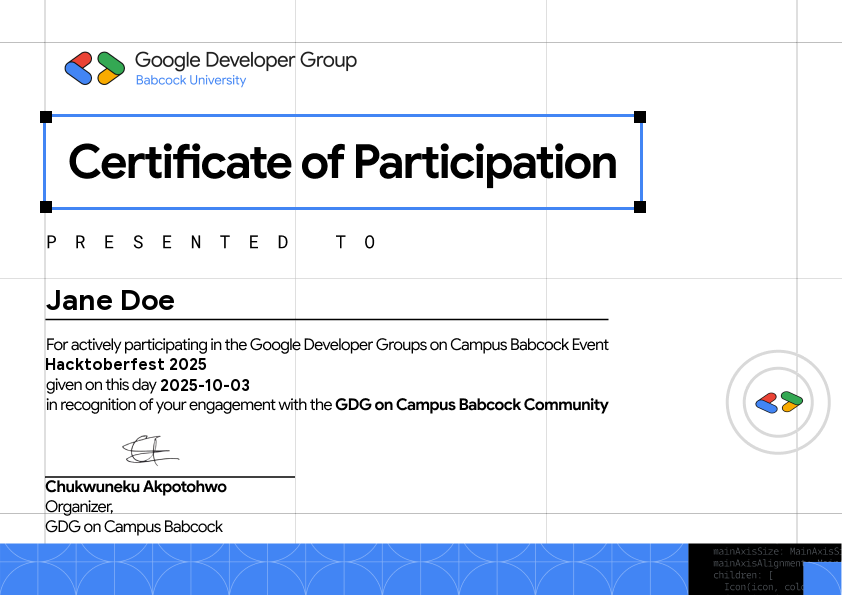
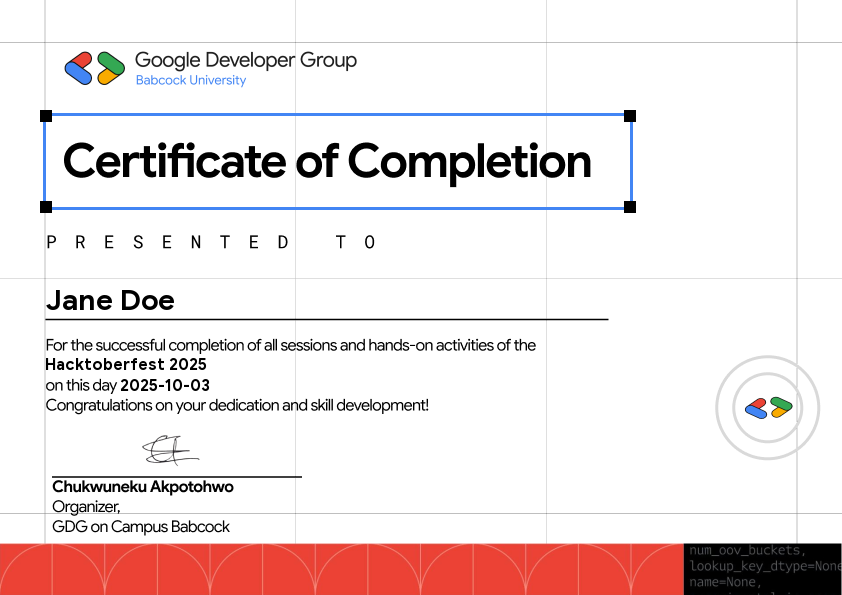
fix(backend): update certificate generator function for both type of certificate

diff --git a/backend/app/services/generator.py b/backend/app/services/generator.py
@@ -4,15 +4,18 @@ from ..models.certificates import CertificateBase
 
 def generate_certificate_from_model(cert_data: CertificateBase, output_path="certificate.png"):
     # Now you can access cert_data.name, cert_data.event, cert_data.date
-    return generate_certificate(cert_data.participant_name, cert_data.event_name, cert_data.date_issued, output_path)
+    return generate_certificate(cert_data.participant_name, cert_data.event_name, cert_data.date_issued, cert_data.certificate_type, output_path)
 
-def generate_certificate(name, event, date, output_path="certificate.png"):
+def generate_certificate(name, event, date, type, output_path="certificate.png"):
     # Debug: show where it will save
     print("Saving certificate at:", os.path.abspath(output_path))
     
     # Load the certificate template PNG
-    template_path = os.path.join(os.path.dirname(__file__), "..", "..", "templates", "certificate_template_participation.png")
-    
+    if type == "completion":
+        template_path = os.path.join(os.path.dirname(__file__), "..", "..", "templates", "certificate_template_completion.png")
+    else:
+        template_path = os.path.join(os.path.dirname(__file__), "..", "..", "templates", "certificate_template_participation.png")
+
     try:
         certificate = Image.open(template_path)
         print(f"✅ Loaded template from: {template_path}")
@@ -59,10 +62,15 @@ def generate_certificate(name, event, date, output_path="certificate.png"):
             draw.text((x, y), text, font=font, fill=color)
 
     # Overlay text on the template, left-aligned at 45px margin
-    left_align_text(name, height // 2 - 15, font_name, "#000000")
-    left_align_text(event, height // 2 + 57, font_event_date, "#000000")
-    left_align_text(date, height // 2 + 78, font_event_date, "#000000", margin=160)
-    
+    if type == "completion":
+        left_align_text(name, height // 2 - 15, font_name, "#000000")
+        left_align_text(event, height // 2 + 57, font_event_date, "#000000")
+        left_align_text(date, height // 2 + 78, font_event_date, "#000000", margin=120)
+    else:
+        left_align_text(name, height // 2 - 15, font_name, "#000000")
+        left_align_text(event, height // 2 + 57, font_event_date, "#000000")
+        left_align_text(date, height // 2 + 78, font_event_date, "#000000", margin=160)
+
     # Save file
     certificate.save(output_path)
     return output_path
@@ -71,7 +79,8 @@ if __name__ == "__main__":
     data = CertificateBase(
         participant_name="Jane Doe",
         event_name="Hacktoberfest 2025",
-        date_issued="2025-10-03"
+        date_issued="2025-10-03",
+        certificate_type="completion"
     )
 
     file_path = generate_certificate_from_model(data)

diff --git a/backend/app/api/certificates.py b/backend/app/api/certificates.py
@@ -42,6 +42,7 @@ async def create_certificate(cert: CertificateCreate):
                 cert_obj.participant_name,
                 cert_obj.event_name,
                 cert_obj.date_issued,
+                cert_obj.certificate_type,
                 output_path
             )
         except FileNotFoundError as e:
@@ -106,6 +107,7 @@ async def create_comp_certificate(cert: CertificateCreate):
                 cert_obj.participant_name,
                 cert_obj.event_name,
                 cert_obj.date_issued,
+                cert_obj.certificate_type,
                 output_path
             )
         except FileNotFoundError as e:
